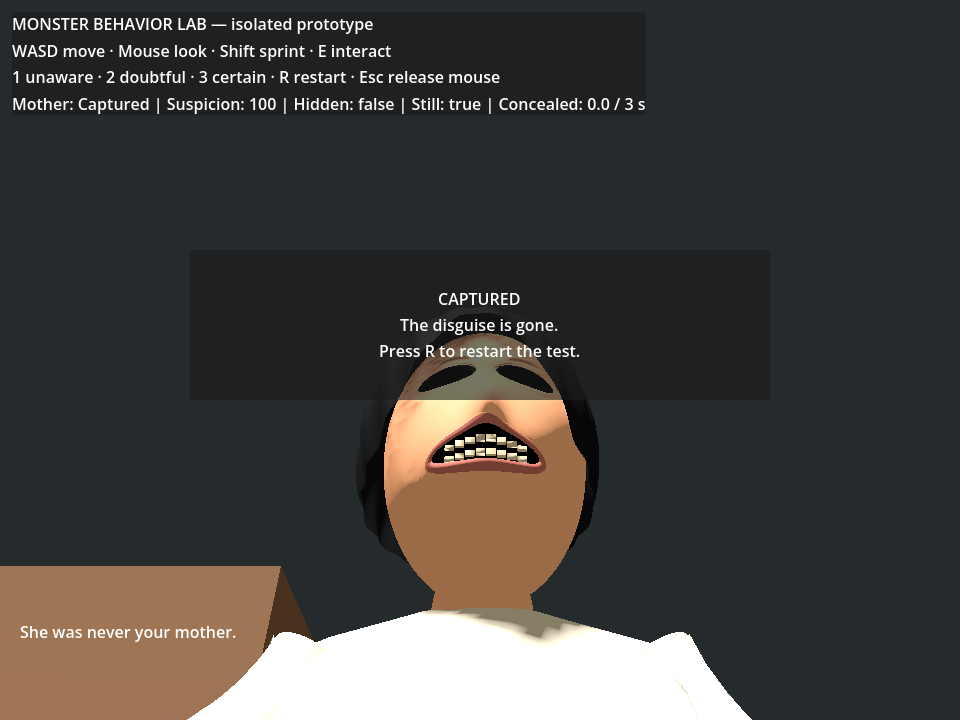
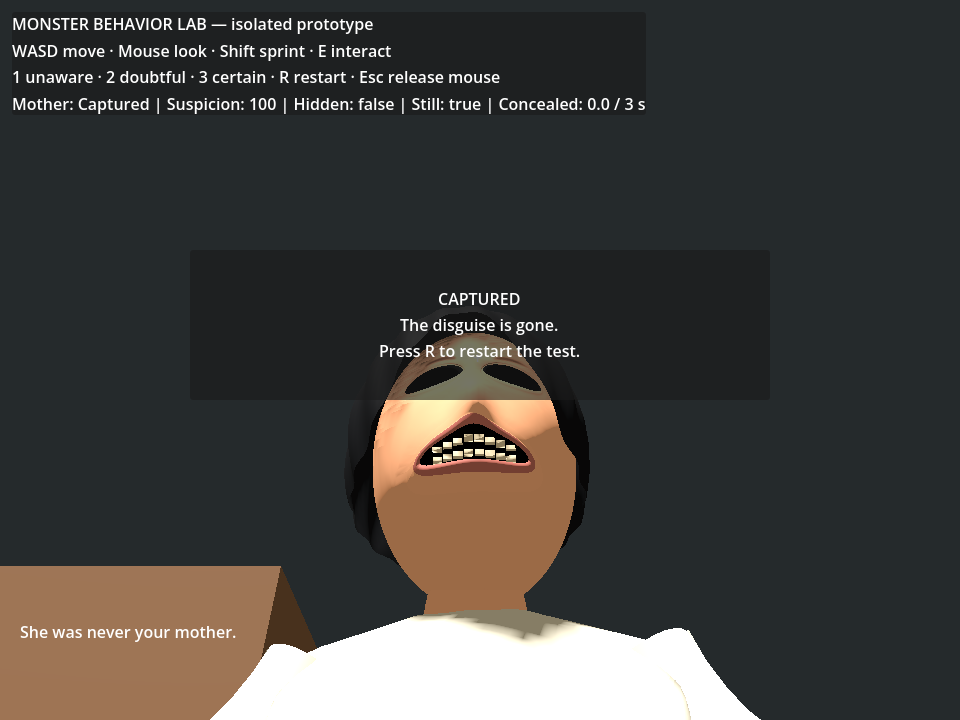
Smooth mother appearance transitions and verify restored low POV

diff --git a/systems/monster/POLISH.md b/systems/monster/POLISH.md
@@ -1,5 +1,21 @@
 # Monster performance and perception refinements
 
+## Low viewpoint and continuous performance
+
+The shared player keeps the 1.05 m eye height and restores its original initial
+10-degree upward angle. The wake-up tween, its completion, and skipping it use
+the same standing-camera rotation. Mouse look remains unrestricted within the
+existing pitch limits. Hiding and capture retain their existing low viewpoints;
+neither the collision capsule nor sight-ray eye height was changed.
+
+Appearance changes interpolate the existing mesh morph weights over 0.65 seconds
+instead of snapping the facial deformation to its next endpoint. Model-variant
+replacement preserves the walk clip's normalized phase, speed, and play/pause
+state. Reset restores the ordinary face immediately. These changes reuse the
+approved mesh variants and animation; they add no character or animation assets.
+Cosmetic root motion runs after animation sampling, and the handoff check waits
+for visual processing so it does not sample before the idle update.
+
 ## Presence and deceptive basement Exit
 
 Mother starts near the upstairs landing. Her normal patrol repeatedly visits
@@ -91,10 +107,11 @@ The monster lab supports `-- --verify-monster`; the main gameplay scene supports
 `-- --verify-house`. Tests cover acoustic barriers, last-contact ordering,
 same-floor search selection, blocked-point expiry, and existing behavior rules.
 
-Verified in Godot 4.7.2 after the presence/Exit pass: headless monster lab 82 checks,
-rendered house 176 checks, real observation/inventory integration 72 checks,
-and legacy Familiar integration 53 checks,
-all with zero failures. House traversal, gradual escalation, hiding, basement
+Verified in Godot 4.7.2 after the low-viewpoint and appearance pass: rendered
+monster lab 89 checks, headless house 177 checks, frontend 38 checks, rendered
+viewpoint preview 5 checks, and legacy Familiar integration 53 checks, all with
+zero failures. The prior observation/inventory integration run passed 72 checks.
+House traversal, gradual escalation, hiding, basement
 reveal, capture/QTE, escape, and restart are covered. Refreshed house previews
 were generated. Full human playtesting of chase fairness and animation quality is
 still needed; these checks establish behavior and integration, not final balance.
